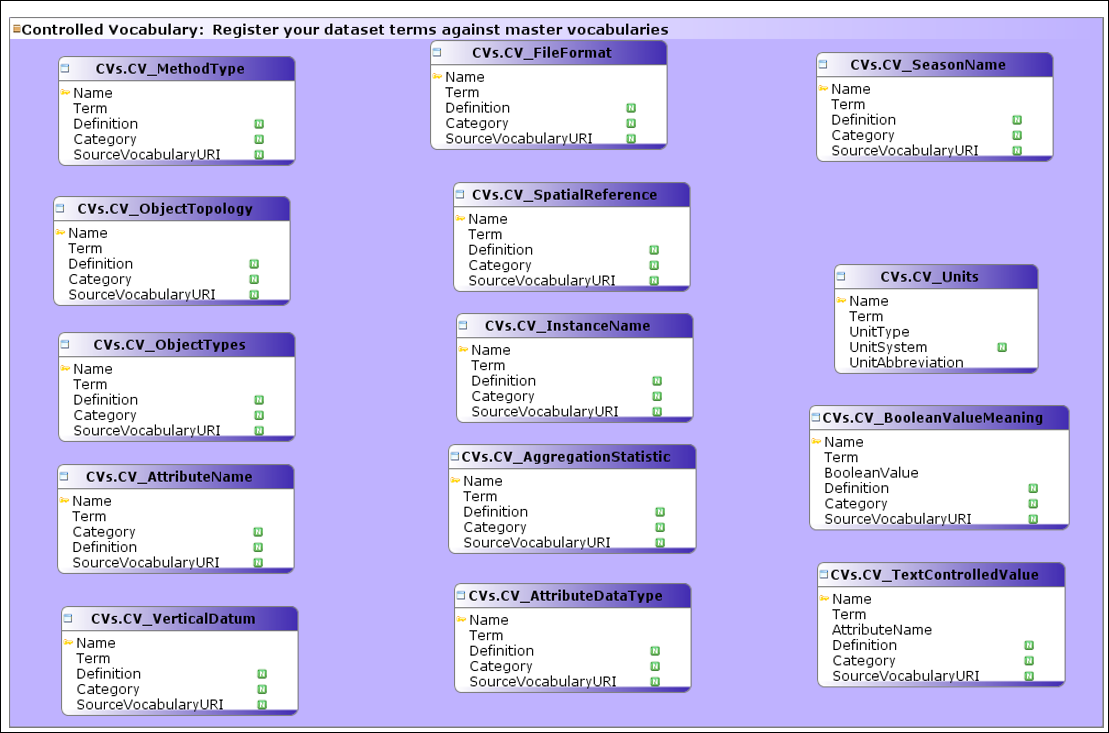
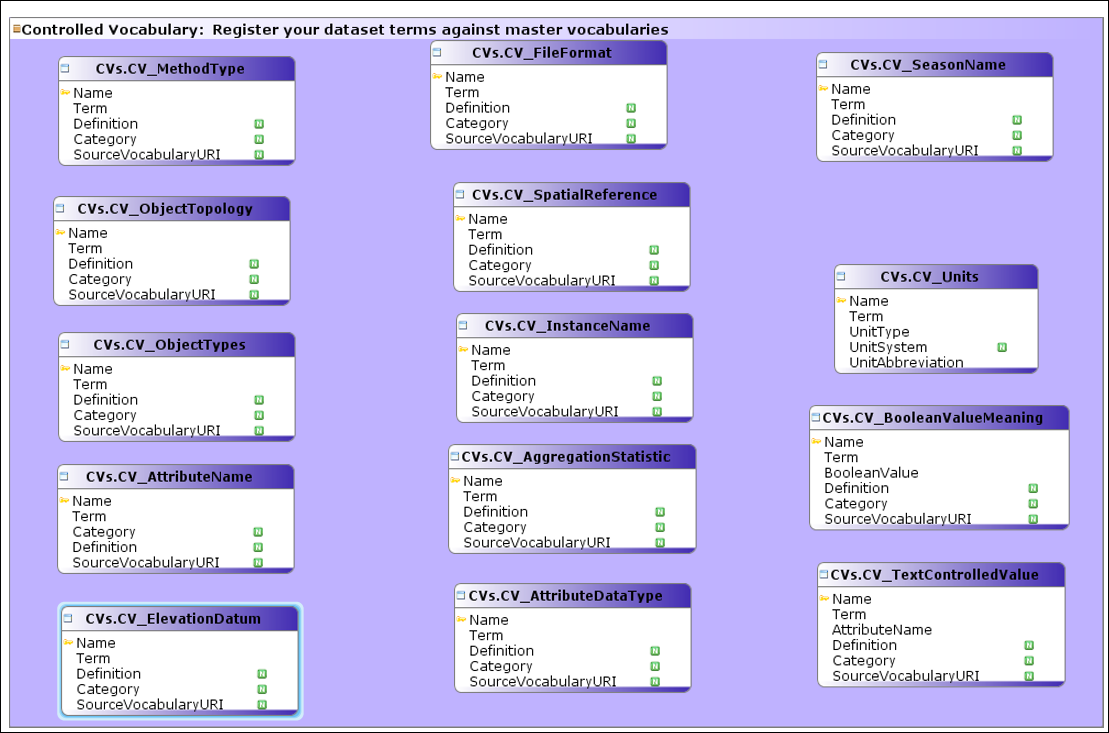
March6

Changed region(s): [[0.0307, 0.8104, 0.2759, 0.9905]]

diff --git a/tables/index.html b/tables/index.html
@@ -39,34 +39,34 @@
 <td><a href="CVs_CV_BooleanValueMeaning.html">CV_BooleanValueMeaning</a></td><td>This table provides the controlled meaning of boolean data values</td><td>CVs</td>
 </tr>
 <tr class="altRow">
+<td><a href="CVs_CV_ElevationDatum.html">CV_ElevationDatum</a></td><td>A elvation datum (e.g., above sea mean level) to reference all the instances that belong to the same Master Network</td><td>CVs</td>
+</tr>
+<tr>
 <td><a href="CVs_CV_FileFormat.html">CV_FileFormat</a></td><td>File format like csv, jpg, NETCDF</td><td>CVs</td>
 </tr>
-<tr>
+<tr class="altRow">
 <td><a href="CVs_CV_InstanceName.html">CV_InstanceName</a></td><td>Univeral instance name to link synonymous instance terms for the samee instance (e.g., Hyrum = Hrm &amp; HyrumCity)</td><td>CVs</td>
 </tr>
-<tr class="altRow">
+<tr>
 <td><a href="CVs_CV_MethodType.html">CV_MethodType</a></td><td>A Method type is a controlled vocabulary term that can be like sample, simulation, optimization, or field procedure. The method type corresponds to &ldquo;value type&rdquo; attribute in the Observations Data Model </td><td>CVs</td>
 </tr>
-<tr>
+<tr class="altRow">
 <td><a href="CVs_CV_ObjectTopology.html">CV_ObjectTopology</a></td><td>The typology of the Object Type as either: Node, link, network</td><td>CVs</td>
 </tr>
-<tr class="altRow">
+<tr>
 <td><a href="CVs_CV_ObjectTypes.html">CV_ObjectTypes</a></td><td>Controlled vocabulary for Object types like Reservoir which maps out to native object types like dam, reservoir, and waterbody</td><td>CVs</td>
 </tr>
-<tr>
+<tr class="altRow">
 <td><a href="CVs_CV_SeasonName.html">CV_SeasonName</a></td><td>Controlled vocabulary for seasons (e.g., winter and day, night, holiday, weekend, week days)</td><td>CVs</td>
 </tr>
-<tr class="altRow">
+<tr>
 <td><a href="CVs_CV_SpatialReference.html">CV_SpatialReference</a></td><td>A spatial reference (e.g., NAD 1983) to reference all the instances that belong to the same Master Network</td><td>CVs</td>
 </tr>
-<tr>
+<tr class="altRow">
 <td><a href="CVs_CV_TextControlledValue.html">CV_TextControlledValue</a></td><td>Controlled text values that can be shared across attributes of instances like Land use &ldquo;Grass_Pasture&rdquo; or irrigation type  "Flood&rdquo;, states "Utah"</td><td>CVs</td>
 </tr>
-<tr class="altRow">
-<td><a href="CVs_CV_Units.html">CV_Units</a></td><td>A unit refers to the dimension of data values of a quantitative attribute, help users unambiguously interpret the meaning of data values. Qualitative attributes like a &ldquo;dam owner name&rdquo; have no unit. The Units table applies to the Attributes table in WaM-DaM Core and enforces the same unit for all attributes across the instances of an Object to meet the consistency of units in particular Data Structure as used in modeling. </td><td>CVs</td>
-</tr>
 <tr>
-<td><a href="CVs_CV_VerticalDatum.html">CV_VerticalDatum</a></td><td>A vertical datum (e.g., above sea mean level) to reference all the instances that belong to the same Master Network</td><td>CVs</td>
+<td><a href="CVs_CV_Units.html">CV_Units</a></td><td>A unit refers to the dimension of data values of a quantitative attribute, help users unambiguously interpret the meaning of data values. Qualitative attributes like a &ldquo;dam owner name&rdquo; have no unit. The Units table applies to the Attributes table in WaM-DaM Core and enforces the same unit for all attributes across the instances of an Object to meet the consistency of units in particular Data Structure as used in modeling. </td><td>CVs</td>
 </tr>
 <tr class="altRow">
 <td><a href="Networks_Connections.html">Connections</a></td><td>Creates the connectivity between node instances through links  and specifies a flow direction by referencing the start and end node instances the link connects.</td><td>Networks</td>

diff --git a/schemas/CVs.html b/schemas/CVs.html
@@ -33,34 +33,34 @@
 <td><a href="../tables/CVs_CV_BooleanValueMeaning.html">CV_BooleanValueMeaning</a></td><td>This table provides the controlled meaning of boolean data values</td>
 </tr>
 <tr>
+<td><a href="../tables/CVs_CV_ElevationDatum.html">CV_ElevationDatum</a></td><td>A elvation datum (e.g., above sea mean level) to reference all the instances that belong to the same Master Network</td>
+</tr>
+<tr class="altRow">
 <td><a href="../tables/CVs_CV_FileFormat.html">CV_FileFormat</a></td><td>File format like csv, jpg, NETCDF</td>
 </tr>
-<tr class="altRow">
+<tr>
 <td><a href="../tables/CVs_CV_InstanceName.html">CV_InstanceName</a></td><td>Univeral instance name to link synonymous instance terms for the samee instance (e.g., Hyrum = Hrm &amp; HyrumCity)</td>
 </tr>
-<tr>
+<tr class="altRow">
 <td><a href="../tables/CVs_CV_MethodType.html">CV_MethodType</a></td><td>A Method type is a controlled vocabulary term that can be like sample, simulation, optimization, or field procedure. The method type corresponds to &ldquo;value type&rdquo; attribute in the Observations Data Model </td>
 </tr>
-<tr class="altRow">
+<tr>
 <td><a href="../tables/CVs_CV_ObjectTopology.html">CV_ObjectTopology</a></td><td>The typology of the Object Type as either: Node, link, network</td>
 </tr>
-<tr>
+<tr class="altRow">
 <td><a href="../tables/CVs_CV_ObjectTypes.html">CV_ObjectTypes</a></td><td>Controlled vocabulary for Object types like Reservoir which maps out to native object types like dam, reservoir, and waterbody</td>
 </tr>
-<tr class="altRow">
+<tr>
 <td><a href="../tables/CVs_CV_SeasonName.html">CV_SeasonName</a></td><td>Controlled vocabulary for seasons (e.g., winter and day, night, holiday, weekend, week days)</td>
 </tr>
-<tr>
+<tr class="altRow">
 <td><a href="../tables/CVs_CV_SpatialReference.html">CV_SpatialReference</a></td><td>A spatial reference (e.g., NAD 1983) to reference all the instances that belong to the same Master Network</td>
 </tr>
-<tr class="altRow">
+<tr>
 <td><a href="../tables/CVs_CV_TextControlledValue.html">CV_TextControlledValue</a></td><td>Controlled text values that can be shared across attributes of instances like Land use &ldquo;Grass_Pasture&rdquo; or irrigation type  "Flood&rdquo;, states "Utah"</td>
 </tr>
-<tr>
-<td><a href="../tables/CVs_CV_Units.html">CV_Units</a></td><td>A unit refers to the dimension of data values of a quantitative attribute, help users unambiguously interpret the meaning of data values. Qualitative attributes like a &ldquo;dam owner name&rdquo; have no unit. The Units table applies to the Attributes table in WaM-DaM Core and enforces the same unit for all attributes across the instances of an Object to meet the consistency of units in particular Data Structure as used in modeling. </td>
-</tr>
 <tr class="altRow">
-<td><a href="../tables/CVs_CV_VerticalDatum.html">CV_VerticalDatum</a></td><td>A vertical datum (e.g., above sea mean level) to reference all the instances that belong to the same Master Network</td>
+<td><a href="../tables/CVs_CV_Units.html">CV_Units</a></td><td>A unit refers to the dimension of data values of a quantitative attribute, help users unambiguously interpret the meaning of data values. Qualitative attributes like a &ldquo;dam owner name&rdquo; have no unit. The Units table applies to the Attributes table in WaM-DaM Core and enforces the same unit for all attributes across the instances of an Object to meet the consistency of units in particular Data Structure as used in modeling. </td>
 </tr>
 </table>
 <h2>Sequences</h2>

diff --git a/tables/CVs_CV_ElevationDatum.html b/tables/CVs_CV_ElevationDatum.html
@@ -1,6 +1,6 @@
 <HTML>
 <header>
-<title>CV_VerticalDatum - Table</title>
+<title>CV_ElevationDatum - Table</title>
 <meta content="text/html; charset=UTF-8" http-equiv="Content-Type">
 <link href="../css/style.css" rel="stylesheet" type="text/css">
 </header>
@@ -12,9 +12,9 @@
 <a class="horzMenu" href="../index.html"> Home</a><a class="horzMenu" href="../tables/index.html">Tables</a><a class="horzMenu" href="../schemas/index.html">Schemas</a><a class="horzMenu" href="../diagrams/index.html">Diagrams</a><a class="horzMenu" href="../foreignKeys/index.html">Foreign Keys</a><a class="horzMenu" href="../indexes/index.html">Indexes</a>
 </div>
 <hr>
-<h1>Table: CV_VerticalDatum</h1>
+<h1>Table: CV_ElevationDatum</h1>
 <div class="paragraph">
-<p>A vertical datum (e.g., above sea mean level) to reference all the instances that belong to the same Master Network</p>
+<p>A elvation datum (e.g., above sea mean level) to reference all the instances that belong to the same Master Network</p>
 </div>
 <h2>Columns</h2>
 <table class="flat">
@@ -25,25 +25,25 @@
 <td class="PkCol">
 <p class="boolImg">
 <img src="../images/pkb16.gif"></p>
-</td><td class="PkCol"><a href="../columns/CVs_CV_VerticalDatum_Name.html">Name</a></td><td class="PkCol">VarChar(255)</td><td class="PkCol"> </td><td class="PkCol"> </td><td class="PkCol"> </td><td class="PkCol">The human readable version of the vocabulary term. May be the same as the term.</td><td class="PkCol"> </td>
+</td><td class="PkCol"><a href="../columns/CVs_CV_ElevationDatum_Name.html">Name</a></td><td class="PkCol">VarChar(255)</td><td class="PkCol"> </td><td class="PkCol"> </td><td class="PkCol"> </td><td class="PkCol">The human readable version of the vocabulary term. May be the same as the term.</td><td class="PkCol"> </td>
 </tr>
 <tr>
-<td> </td><td><a href="../columns/CVs_CV_VerticalDatum_Term.html">Term</a></td><td>VarChar(255)</td><td> </td><td> </td><td> </td><td>The machine version of the vocabulary term (no spaces). May be the same as the term.</td><td> </td>
+<td> </td><td><a href="../columns/CVs_CV_ElevationDatum_Term.html">Term</a></td><td>VarChar(255)</td><td> </td><td> </td><td> </td><td>The machine version of the vocabulary term (no spaces). May be the same as the term.</td><td> </td>
 </tr>
 <tr>
-<td> </td><td><a href="../columns/CVs_CV_VerticalDatum_Definition.html">Definition</a></td><td>VarChar(5000)</td><td>
+<td> </td><td><a href="../columns/CVs_CV_ElevationDatum_Definition.html">Definition</a></td><td>VarChar(5000)</td><td>
 <p class="boolImg">
 <img src="../images/ok12d.gif"></p>
 </td><td> </td><td> </td><td>Definition of vocabulary term</td><td> </td>
 </tr>
 <tr>
-<td> </td><td><a href="../columns/CVs_CV_VerticalDatum_Category.html">Category</a></td><td>VarChar(255)</td><td>
+<td> </td><td><a href="../columns/CVs_CV_ElevationDatum_Category.html">Category</a></td><td>VarChar(255)</td><td>
 <p class="boolImg">
 <img src="../images/ok12d.gif"></p>
 </td><td> </td><td> </td><td>A category within which the term falls</td><td> </td>
 </tr>
 <tr>
-<td> </td><td><a href="../columns/CVs_CV_VerticalDatum_SourceVocabularyURI.html">SourceVocabularyURI</a></td><td>VarChar(255)</td><td>
+<td> </td><td><a href="../columns/CVs_CV_ElevationDatum_SourceVocabularyURI.html">SourceVocabularyURI</a></td><td>VarChar(255)</td><td>
 <p class="boolImg">
 <img src="../images/ok12d.gif"></p>
 </td><td> </td><td> </td><td>A link to the source vocabulary from which the term was derived.	</td><td> </td>

diff --git a/foreignKeys/index.html b/foreignKeys/index.html
@@ -144,7 +144,7 @@
 <td><a href="../foreignKeys/Networks_MasterNetworks_fk_MasterNetworks_CV_SpatialReference.html">fk_MasterNetworks_CV_SpatialReference</a></td><td><a href="../tables/CVs_CV_SpatialReference.html">CVs.CV_SpatialReference</a></td><td><a href="../tables/Networks_MasterNetworks.html">Networks.MasterNetworks</a></td><td>Name</td><td>SpatialReferenceNameCV</td>
 </tr>
 <tr>
-<td><a href="../foreignKeys/Networks_MasterNetworks_fk_MasterNetworks_CV_VerticalDatum.html">fk_MasterNetworks_CV_VerticalDatum</a></td><td><a href="../tables/CVs_CV_VerticalDatum.html">CVs.CV_VerticalDatum</a></td><td><a href="../tables/Networks_MasterNetworks.html">Networks.MasterNetworks</a></td><td>Name</td><td>VerticalDatumCV</td>
+<td><a href="../foreignKeys/Networks_MasterNetworks_fk_MasterNetworks_CV_VerticalDatum.html">fk_MasterNetworks_CV_VerticalDatum</a></td><td><a href="../tables/CVs_CV_ElevationDatum.html">CVs.CV_ElevationDatum</a></td><td><a href="../tables/Networks_MasterNetworks.html">Networks.MasterNetworks</a></td><td>Name</td><td>VerticalDatumCV</td>
 </tr>
 <tr class="altRow">
 <td><a href="../foreignKeys/Networks_ScenarioMapping_fk_ScenarioMapping_Mapping.html">fk_ScenarioMapping_Mapping</a></td><td><a href="../tables/Networks_Mapping.html">Networks.Mapping</a></td><td><a href="../tables/Networks_ScenarioMapping.html">Networks.ScenarioMapping</a></td><td>MappingID</td><td>MappingID</td>

diff --git a/tables/Networks_MasterNetworks.html b/tables/Networks_MasterNetworks.html
@@ -62,7 +62,7 @@
 <td><a href="../foreignKeys/Networks_MasterNetworks_fk_MasterNetworks_CV_SpatialReference.html">fk_MasterNetworks_CV_SpatialReference</a></td><td><a href="../tables/CVs_CV_SpatialReference.html">CVs.CV_SpatialReference</a></td><td><a href="../tables/Networks_MasterNetworks.html">Networks.MasterNetworks</a></td><td>Name</td><td>SpatialReferenceNameCV</td>
 </tr>
 <tr>
-<td><a href="../foreignKeys/Networks_MasterNetworks_fk_MasterNetworks_CV_VerticalDatum.html">fk_MasterNetworks_CV_VerticalDatum</a></td><td><a href="../tables/CVs_CV_VerticalDatum.html">CVs.CV_VerticalDatum</a></td><td><a href="../tables/Networks_MasterNetworks.html">Networks.MasterNetworks</a></td><td>Name</td><td>VerticalDatumCV</td>
+<td><a href="../foreignKeys/Networks_MasterNetworks_fk_MasterNetworks_CV_VerticalDatum.html">fk_MasterNetworks_CV_VerticalDatum</a></td><td><a href="../tables/CVs_CV_ElevationDatum.html">CVs.CV_ElevationDatum</a></td><td><a href="../tables/Networks_MasterNetworks.html">Networks.MasterNetworks</a></td><td>Name</td><td>VerticalDatumCV</td>
 </tr>
 </table>
 <br>

diff --git a/diagrams/02_WaMDaM_WCVs.html b/diagrams/02_WaMDaM_WCVs.html
@@ -45,7 +45,7 @@
 <area coords="2187, 980, 2435, 1089" href="../tables/CVs_CV_AggregationStatistic.html" shape="rect">
 <area coords="336, 374, 633, 452" href="../tables/DatasetStructure_AttributeCategory.html" shape="rect">
 <area coords="28, 371, 310, 449" href="../tables/DatasetStructure_ObjectCategory.html" shape="rect">
-<area coords="830, 41, 1067, 150" href="../tables/CVs_CV_VerticalDatum.html" shape="rect">
+<area coords="830, 41, 1067, 150" href="../tables/CVs_CV_ElevationDatum.html" shape="rect">
 <area coords="480, 498, 717, 607" href="../tables/CVs_CV_AttributeDataType.html" shape="rect">
 <area coords="1224, 574, 1461, 652" href="../tables/Networks_ScenarioMapping.html" shape="rect">
 <area coords="2150, 111, 2410, 235" href="../tables/CVs_CV_BooleanValueMeaning.html" shape="rect">

diff --git a/diagrams/03_CVs.html b/diagrams/03_CVs.html
@@ -24,7 +24,7 @@
 <area coords="453, 182, 689, 291" href="../tables/CVs_CV_SpatialReference.html" shape="rect">
 <area coords="817, 562, 1064, 686" href="../tables/CVs_CV_TextControlledValue.html" shape="rect">
 <area coords="834, 264, 1038, 372" href="../tables/CVs_CV_Units.html" shape="rect">
-<area coords="61, 606, 298, 715" href="../tables/CVs_CV_VerticalDatum.html" shape="rect">
+<area coords="61, 606, 298, 715" href="../tables/CVs_CV_ElevationDatum.html" shape="rect">
 <area coords="456, 313, 693, 422" href="../tables/CVs_CV_InstanceName.html" shape="rect">
 <area coords="53, 196, 290, 305" href="../tables/CVs_CV_ObjectTopology.html" shape="rect">
 <area coords="430, 40, 666, 149" href="../tables/CVs_CV_FileFormat.html" shape="rect">

diff --git a/foreignKeys/Networks_MasterNetworks_fk_MasterNetworks_CV_VerticalDatum.html b/foreignKeys/Networks_MasterNetworks_fk_MasterNetworks_CV_VerticalDatum.html
@@ -21,7 +21,7 @@
 <td class="key">Comment</td><td class="value"> </td>
 </tr>
 <tr>
-<td class="key">Parent Table</td><td class="value"><a href="../tables/CVs_CV_VerticalDatum.html">Networks.CV_VerticalDatum</a></td>
+<td class="key">Parent Table</td><td class="value"><a href="../tables/CVs_CV_ElevationDatum.html">Networks.CV_ElevationDatum</a></td>
 </tr>
 <tr>
 <td class="key">Child Table</td><td class="value"><a href="../tables/Networks_MasterNetworks.html">Networks.MasterNetworks</a></td>

diff --git a/index.html b/index.html
@@ -37,7 +37,7 @@
 <div class="paragraph">
 <p>
 <b>Documented with DbWrench  </b>
-<k>06 Mar 2017 - 12:12:55 PM</k>
+<k>06 Mar 2017 - 01:27:43 PM</k>
 </p>
 </div>
 </body>
